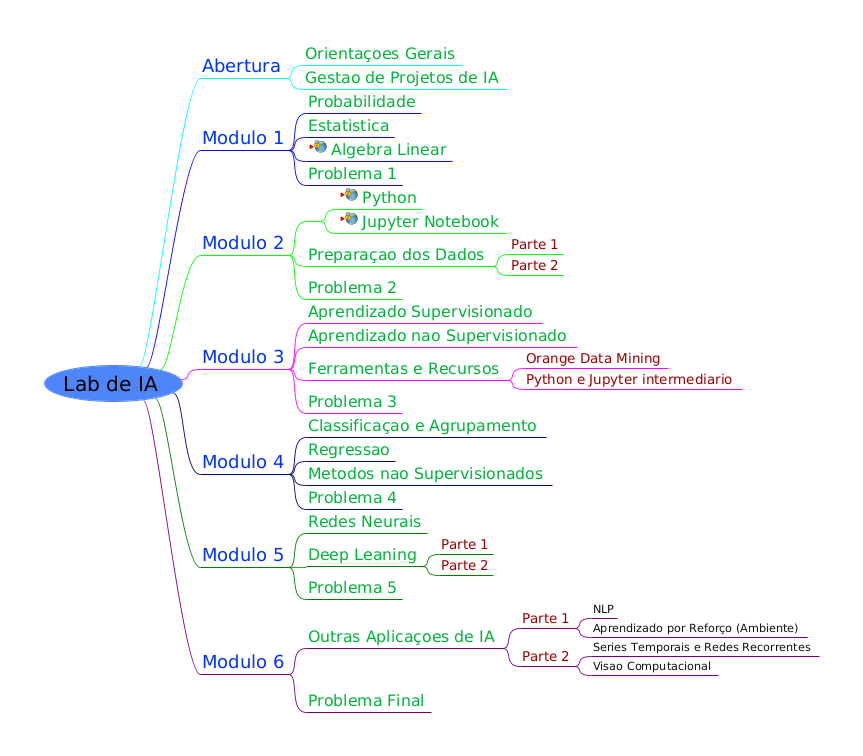
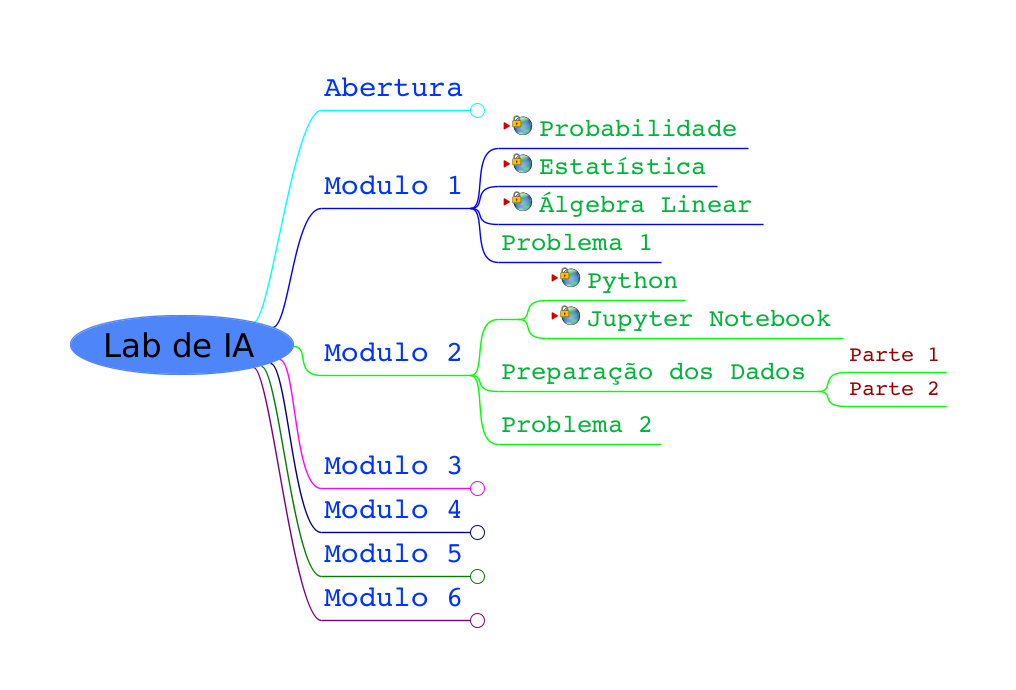
Add files via upload

Changed region(s): [[0.0301, 0.0609, 0.934, 0.9435], [0.5724, 0.7913, 0.934, 0.913], [0.241, 0.3957, 0.2711, 0.4261]]

diff --git a/I2A2.html b/I2A2.html
@@ -1,0 +1,48 @@
+<?xml version="1.0" encoding="UTF-8"?><!DOCTYPE html PUBLIC "-//W3C//DTD XHTML 1.1//EN" "http://www.w3.org/TR/xhtml11/DTD/xhtml11.dtd">
+<html xmlns="http://www.w3.org/1999/xhtml"><meta http-equiv="Content-Type" content="text/html; charset=UTF-8" /><!--This file has been created with freeplane2html.xsl--><head><title>Lab de IA</title><link rel="stylesheet" href="I2A2.html_files/freeplane2html.css" type="text/css" /><meta name="generator" content="Freeplane-XSL Stylesheet (see: http://freeplane-xsl.dev.slash-me.net/ for details)" /><script type="text/javascript" src="I2A2.html_files/freeplane2html.js"> 
+	</script><script type="text/javascript"><!--
+          
+               function toggle(id)
+               {
+                   div_el = document.getElementById(id);
+                   img_el = document.getElementById('img'+id);
+                   if (div_el.style.display != 'none')
+                   {
+          
+
+                      div_el.style.display='none';
+                      img_el.src = 'I2A2.html_files/show.png';
+          
+                   }
+                   else
+                   {
+          
+                      div_el.style.display='block';
+                      img_el.src = 'I2A2.html_files/hide.png';
+          
+                   };
+               };
+          
+          --></script></head><body><h1>Lab de IA</h1><div style="width:96%;  padding:2%;  margin-bottom:10px;  border: 0px;  text-align:center;  vertical-align:center;"><img src="I2A2.html_files/image.png" style="margin-bottom:10px; &#9;border: 0px; &#9;text-align:center; &#9;vertical-align:center;" alt="Imagemap" usemap="#fm_imagemap" /></div><map name="fm_imagemap" id="fm_imagemap"><area shape="rect" href="#FMID_220443495FM" alt="Lab de IA" title="Lab de IA" coords="70,315,294,375" />
+<area shape="rect" href="#FMID_1925465636FM" alt="Abertura" title="Abertura" coords="321,70,471,110" />
+<area shape="rect" href="#FMID_1728232935FM" alt="Modulo 1" title="Modulo 1" coords="321,168,471,208" />
+<area shape="rect" href="#FMID_1487210334FM" alt="Probabilidade" title="Probabilidade" coords="498,114,748,148" />
+<area shape="rect" href="#FMID_1726354105FM" alt="Estat&iacute;stica" title="Estat&iacute;stica" coords="498,152,717,186" />
+<area shape="rect" href="#FMID_775850777FM" alt="&Aacute;lgebra Linear" title="&Aacute;lgebra Linear" coords="498,190,763,224" />
+<area shape="rect" href="#FMID_799160262FM" alt="Problema 1" title="Problema 1" coords="498,228,661,262" />
+<area shape="rect" href="#FMID_96252053FM" alt="Modulo 2" title="Modulo 2" coords="321,335,471,375" />
+<area shape="rect" href="#FMID_1677632007FM" alt="" title="" coords="498,285,519,319" />
+<area shape="rect" href="#FMID_973504439FM" alt="Python" title="Python" coords="546,266,685,300" />
+<area shape="rect" href="#FMID_1737749127FM" alt="Jupyter Notebook" title="Jupyter Notebook" coords="546,304,843,338" />
+<area shape="rect" href="#FMID_107093426FM" alt="Prepara&ccedil;&atilde;o dos Dados" title="Prepara&ccedil;&atilde;o dos Dados" coords="498,357,819,391" />
+<area shape="rect" href="#FMID_1799148191FM" alt="Parte 1" title="Parte 1" coords="846,342,946,372" />
+<area shape="rect" href="#FMID_800099813FM" alt="Parte 2" title="Parte 2" coords="846,376,946,406" />
+<area shape="rect" href="#FMID_1812852825FM" alt="Problema 2" title="Problema 2" coords="498,410,661,444" />
+<area shape="rect" href="#FMID_1963678647FM" alt="Modulo 3" title="Modulo 3" coords="321,448,471,488" />
+<area shape="rect" href="#FMID_1892317940FM" alt="Modulo 4" title="Modulo 4" coords="321,492,471,532" />
+<area shape="rect" href="#FMID_45282282FM" alt="Modulo 5" title="Modulo 5" coords="321,536,471,576" />
+<area shape="rect" href="#FMID_1090526687FM" alt="Modulo 6" title="Modulo 6" coords="321,580,471,620" />
+</map>
+
+<div class="node"><img src="I2A2.html_files/hide.png" class="hideshow" alt="hide" onClick="toggle(&quot;N65543&quot;)" id="imgN65543" /><a id="FMID_220443495FM" /><div class="nodecontent" style="color:#000000;font-size:150%;">Lab de IA</div><div class="content" id="N65543"><div class="node"><img src="I2A2.html_files/hide.png" class="hideshow" alt="hide" onClick="toggle(&quot;N66489&quot;)" id="imgN66489" /><a id="FMID_1925465636FM" /><div class="nodecontent" style="color:#0033ff;font-size:133%;">Abertura</div><div class="content" id="N66489"><div class="node"><img src="I2A2.html_files/leaf.png" class="hideshow" alt="leaf" /><a id="FMID_775413981FM" /><div class="nodecontent" style="color:#00b439;font-size:117%;">Orientações Gerais</div></div><div class="node"><img src="I2A2.html_files/leaf.png" class="hideshow" alt="leaf" /><a id="FMID_1539818075FM" /><div class="nodecontent" style="color:#00b439;font-size:117%;">Gestao de Projetos de IA</div></div></div></div><div class="node"><img src="I2A2.html_files/hide.png" class="hideshow" alt="hide" onClick="toggle(&quot;N66600&quot;)" id="imgN66600" /><a id="FMID_1728232935FM" /><div class="nodecontent" style="color:#0033ff;font-size:133%;">Modulo 1</div><div class="content" id="N66600"><div class="node"><img src="I2A2.html_files/leaf.png" class="hideshow" alt="leaf" /><a id="FMID_1487210334FM" /><div class="nodecontent" style="color:#00b439;font-size:117%;"><a href="https://github.com/vsvasconcelos/i2a2/blob/main/m1_probabilidade_rev1.ipynb">Probabilidade</a> <a href="https://github.com/vsvasconcelos/i2a2/blob/main/m1_probabilidade_rev1.ipynb"><img src="I2A2.html_files/ilink.png" alt="User Link" style="border-width:0" /></a></div></div><div class="node"><img src="I2A2.html_files/leaf.png" class="hideshow" alt="leaf" /><a id="FMID_1726354105FM" /><div class="nodecontent" style="color:#00b439;font-size:117%;"><a href="https://github.com/vsvasconcelos/i2a2/blob/main/m1_estatistica_rev1.ipynb">Estatística</a> <a href="https://github.com/vsvasconcelos/i2a2/blob/main/m1_estatistica_rev1.ipynb"><img src="I2A2.html_files/ilink.png" alt="User Link" style="border-width:0" /></a></div></div><div class="node"><img src="I2A2.html_files/leaf.png" class="hideshow" alt="leaf" /><a id="FMID_775850777FM" /><div class="nodecontent" style="color:#00b439;font-size:117%;"><a href="https://github.com/vsvasconcelos/i2a2/blob/main/m1_algebralinear.ipynb">Álgebra Linear</a> <a href="https://github.com/vsvasconcelos/i2a2/blob/main/m1_algebralinear.ipynb"><img src="I2A2.html_files/ilink.png" alt="User Link" style="border-width:0" /></a></div></div><div class="node"><img src="I2A2.html_files/leaf.png" class="hideshow" alt="leaf" /><a id="FMID_799160262FM" /><div class="nodecontent" style="color:#00b439;font-size:117%;">Problema 1</div></div></div></div><div class="node"><img src="I2A2.html_files/hide.png" class="hideshow" alt="hide" onClick="toggle(&quot;N66784&quot;)" id="imgN66784" /><a id="FMID_96252053FM" /><div class="nodecontent" style="color:#0033ff;font-size:133%;">Modulo 2</div><div class="content" id="N66784"><div class="node"><img src="I2A2.html_files/hide.png" class="hideshow" alt="hide" onClick="toggle(&quot;N66823&quot;)" id="imgN66823" /><a id="FMID_1677632007FM" /><div class="nodecontent" style="color:#00b439;font-size:117%;"> </div><div class="content" id="N66823"><div class="node"><img src="I2A2.html_files/leaf.png" class="hideshow" alt="leaf" /><a id="FMID_973504439FM" /><div class="nodecontent" style="color:#00b439;font-size:117%;"><a href="https://github.com/vsvasconcelos/i2a2/blob/main/m2_python_rev1.ipynb">Python</a> <a href="https://github.com/vsvasconcelos/i2a2/blob/main/m2_python_rev1.ipynb"><img src="I2A2.html_files/ilink.png" alt="User Link" style="border-width:0" /></a></div></div><div class="node"><img src="I2A2.html_files/leaf.png" class="hideshow" alt="leaf" /><a id="FMID_1737749127FM" /><div class="nodecontent" style="color:#00b439;font-size:117%;"><a href="https://github.com/vsvasconcelos/i2a2/blob/main/m2_Jupyter_rev1.ipynb">Jupyter Notebook</a> <a href="https://github.com/vsvasconcelos/i2a2/blob/main/m2_Jupyter_rev1.ipynb"><img src="I2A2.html_files/ilink.png" alt="User Link" style="border-width:0" /></a></div></div></div></div><div class="node"><img src="I2A2.html_files/hide.png" class="hideshow" alt="hide" onClick="toggle(&quot;N66935&quot;)" id="imgN66935" /><a id="FMID_107093426FM" /><div class="nodecontent" style="color:#00b439;font-size:117%;">Preparação dos Dados</div><div class="content" id="N66935"><div class="node"><img src="I2A2.html_files/leaf.png" class="hideshow" alt="leaf" /><a id="FMID_1799148191FM" /><div class="nodecontent" style="color:#990000;font-size:100%;">Parte 1</div></div><div class="node"><img src="I2A2.html_files/leaf.png" class="hideshow" alt="leaf" /><a id="FMID_800099813FM" /><div class="nodecontent" style="color:#990000;font-size:100%;">Parte 2</div></div></div></div><div class="node"><img src="I2A2.html_files/leaf.png" class="hideshow" alt="leaf" /><a id="FMID_1812852825FM" /><div class="nodecontent" style="color:#00b439;font-size:117%;">Problema 2</div></div></div></div><div class="node"><img src="I2A2.html_files/hide.png" class="hideshow" alt="hide" onClick="toggle(&quot;N67080&quot;)" id="imgN67080" /><a id="FMID_1963678647FM" /><div class="nodecontent" style="color:#0033ff;font-size:133%;">Modulo 3</div><div class="content" id="N67080"><div class="node"><img src="I2A2.html_files/leaf.png" class="hideshow" alt="leaf" /><a id="FMID_1069209057FM" /><div class="nodecontent" style="color:#00b439;font-size:117%;">Aprendizado Supervisionado</div></div><div class="node"><img src="I2A2.html_files/leaf.png" class="hideshow" alt="leaf" /><a id="FMID_431958632FM" /><div class="nodecontent" style="color:#00b439;font-size:117%;">Aprendizado nao Supervisionado</div></div><div class="node"><img src="I2A2.html_files/hide.png" class="hideshow" alt="hide" onClick="toggle(&quot;N67189&quot;)" id="imgN67189" /><a id="FMID_658622582FM" /><div class="nodecontent" style="color:#00b439;font-size:117%;">Ferramentas e Recursos</div><div class="content" id="N67189"><div class="node"><img src="I2A2.html_files/leaf.png" class="hideshow" alt="leaf" /><a id="FMID_316592418FM" /><div class="nodecontent" style="color:#990000;font-size:100%;">Orange Data Mining</div></div><div class="node"><img src="I2A2.html_files/leaf.png" class="hideshow" alt="leaf" /><a id="FMID_303420739FM" /><div class="nodecontent" style="color:#990000;font-size:100%;">Python e Jupyter intermediario</div></div></div></div><div class="node"><img src="I2A2.html_files/leaf.png" class="hideshow" alt="leaf" /><a id="FMID_262081408FM" /><div class="nodecontent" style="color:#00b439;font-size:117%;">Problema 3</div></div></div></div><div class="node"><img src="I2A2.html_files/hide.png" class="hideshow" alt="hide" onClick="toggle(&quot;N67334&quot;)" id="imgN67334" /><a id="FMID_1892317940FM" /><div class="nodecontent" style="color:#0033ff;font-size:133%;">Modulo 4</div><div class="content" id="N67334"><div class="node"><img src="I2A2.html_files/leaf.png" class="hideshow" alt="leaf" /><a id="FMID_243894602FM" /><div class="nodecontent" style="color:#00b439;font-size:117%;">Classificacão e Agrupamento</div></div><div class="node"><img src="I2A2.html_files/leaf.png" class="hideshow" alt="leaf" /><a id="FMID_434346064FM" /><div class="nodecontent" style="color:#00b439;font-size:117%;">Regressão</div></div><div class="node"><img src="I2A2.html_files/leaf.png" class="hideshow" alt="leaf" /><a id="FMID_1943163895FM" /><div class="nodecontent" style="color:#00b439;font-size:117%;">Metodos nao Supervisionados</div></div><div class="node"><img src="I2A2.html_files/leaf.png" class="hideshow" alt="leaf" /><a id="FMID_274852527FM" /><div class="nodecontent" style="color:#00b439;font-size:117%;">Problema 4</div></div></div></div><div class="node"><img src="I2A2.html_files/hide.png" class="hideshow" alt="hide" onClick="toggle(&quot;N67516&quot;)" id="imgN67516" /><a id="FMID_45282282FM" /><div class="nodecontent" style="color:#0033ff;font-size:133%;">Modulo 5</div><div class="content" id="N67516"><div class="node"><img src="I2A2.html_files/leaf.png" class="hideshow" alt="leaf" /><a id="FMID_57273117FM" /><div class="nodecontent" style="color:#00b439;font-size:117%;">Redes Neurais</div></div><div class="node"><img src="I2A2.html_files/hide.png" class="hideshow" alt="hide" onClick="toggle(&quot;N67589&quot;)" id="imgN67589" /><a id="FMID_832640685FM" /><div class="nodecontent" style="color:#00b439;font-size:117%;">Deep Leaning</div><div class="content" id="N67589"><div class="node"><img src="I2A2.html_files/leaf.png" class="hideshow" alt="leaf" /><a id="FMID_86169859FM" /><div class="nodecontent" style="color:#990000;font-size:100%;">Parte 1</div></div><div class="node"><img src="I2A2.html_files/leaf.png" class="hideshow" alt="leaf" /><a id="FMID_753190189FM" /><div class="nodecontent" style="color:#990000;font-size:100%;">Parte 2</div></div></div></div><div class="node"><img src="I2A2.html_files/leaf.png" class="hideshow" alt="leaf" /><a id="FMID_995026228FM" /><div class="nodecontent" style="color:#00b439;font-size:117%;">Problema 5</div></div></div></div><div class="node"><img src="I2A2.html_files/hide.png" class="hideshow" alt="hide" onClick="toggle(&quot;N67734&quot;)" id="imgN67734" /><a id="FMID_1090526687FM" /><div class="nodecontent" style="color:#0033ff;font-size:133%;">Modulo 6</div><div class="content" id="N67734"><div class="node"><img src="I2A2.html_files/hide.png" class="hideshow" alt="hide" onClick="toggle(&quot;N67771&quot;)" id="imgN67771" /><a id="FMID_1170024971FM" /><div class="nodecontent" style="color:#00b439;font-size:117%;">Outras Aplicações de IA</div><div class="content" id="N67771"><div class="node"><img src="I2A2.html_files/hide.png" class="hideshow" alt="hide" onClick="toggle(&quot;N67808&quot;)" id="imgN67808" /><a id="FMID_1634776843FM" /><div class="nodecontent" style="color:#990000;font-size:100%;">Parte 1</div><div class="content" id="N67808"><div class="node"><img src="I2A2.html_files/leaf.png" class="hideshow" alt="leaf" /><a id="FMID_1064280470FM" /><div class="nodecontent" style="color:#990000;font-size:100%;">NLP</div></div><div class="node"><img src="I2A2.html_files/leaf.png" class="hideshow" alt="leaf" /><a id="FMID_1265658667FM" /><div class="nodecontent" style="color:#990000;font-size:100%;">Aprendizado por Reforço (Ambiente)</div></div></div></div><div class="node"><img src="I2A2.html_files/hide.png" class="hideshow" alt="hide" onClick="toggle(&quot;N67918&quot;)" id="imgN67918" /><a id="FMID_1934082857FM" /><div class="nodecontent" style="color:#990000;font-size:100%;">Parte 2</div><div class="content" id="N67918"><div class="node"><img src="I2A2.html_files/leaf.png" class="hideshow" alt="leaf" /><a id="FMID_1110482036FM" /><div class="nodecontent" style="color:#990000;font-size:100%;">Series Temporais e Redes Recorrentes</div></div><div class="node"><img src="I2A2.html_files/leaf.png" class="hideshow" alt="leaf" /><a id="FMID_724308494FM" /><div class="nodecontent" style="color:#990000;font-size:100%;">Visao Computacional</div></div></div></div></div></div><div class="node"><img src="I2A2.html_files/leaf.png" class="hideshow" alt="leaf" /><a id="FMID_1798188838FM" /><div class="nodecontent" style="color:#00b439;font-size:117%;">Problema Final</div></div></div></div></div></div>
+</body></html>
